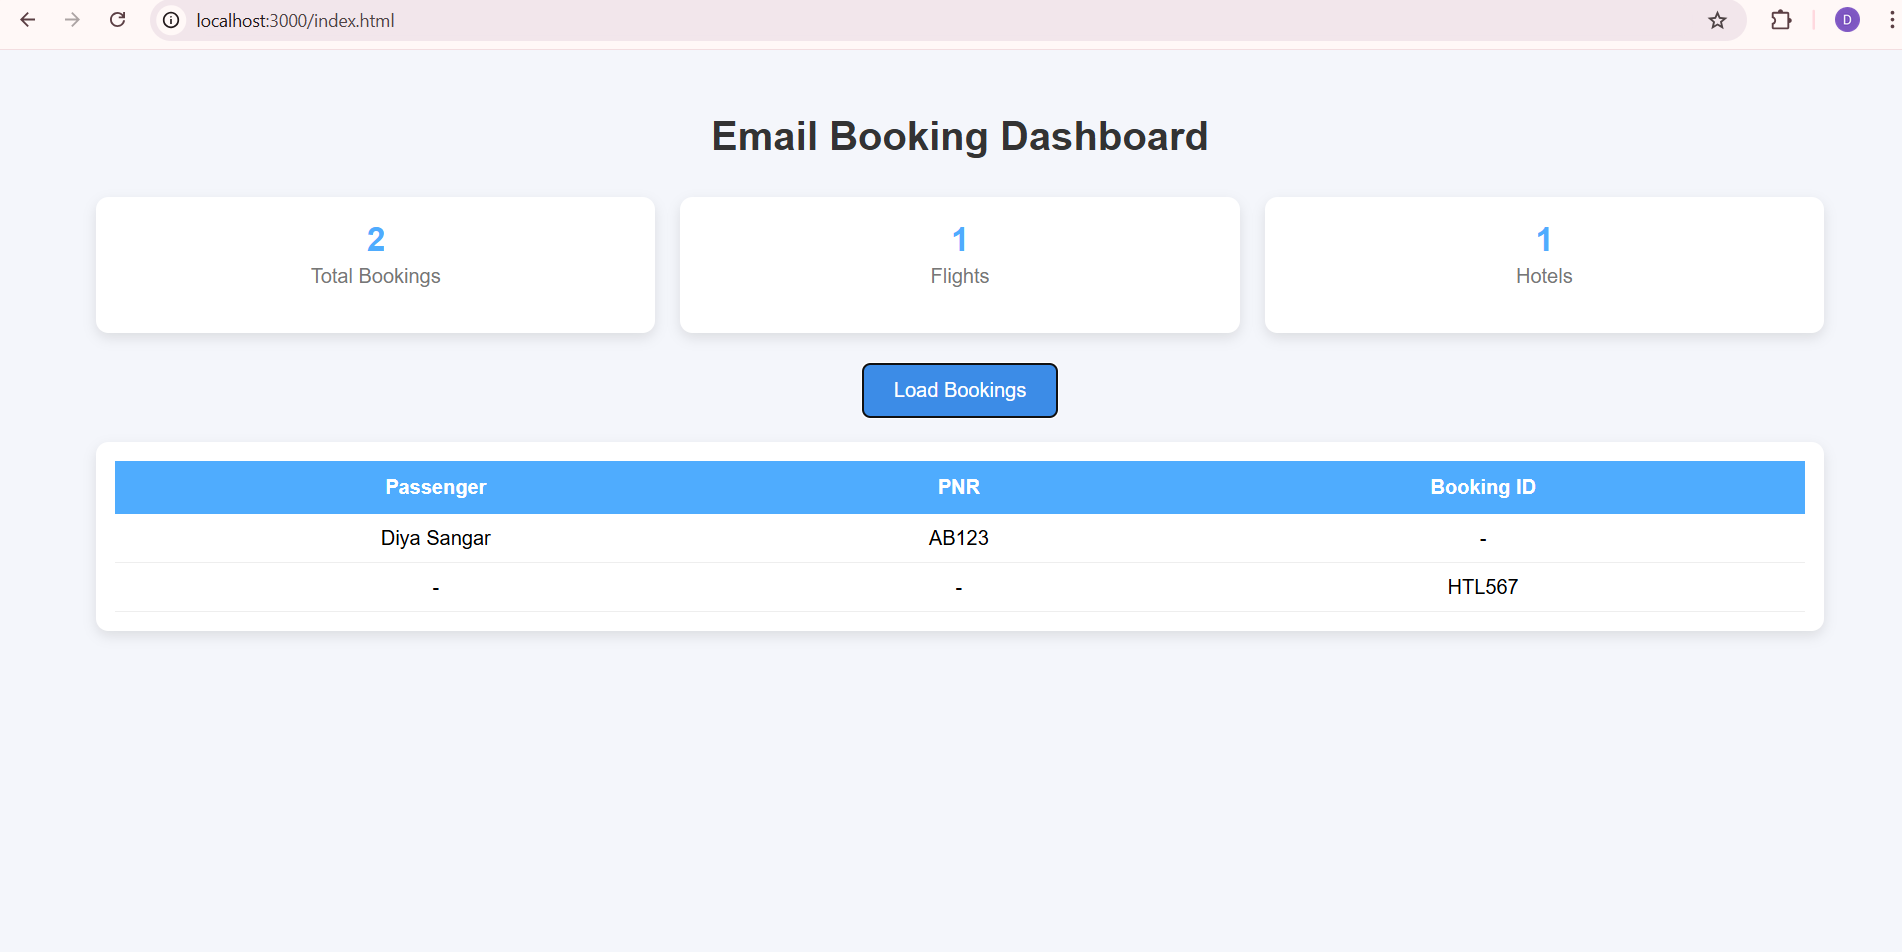
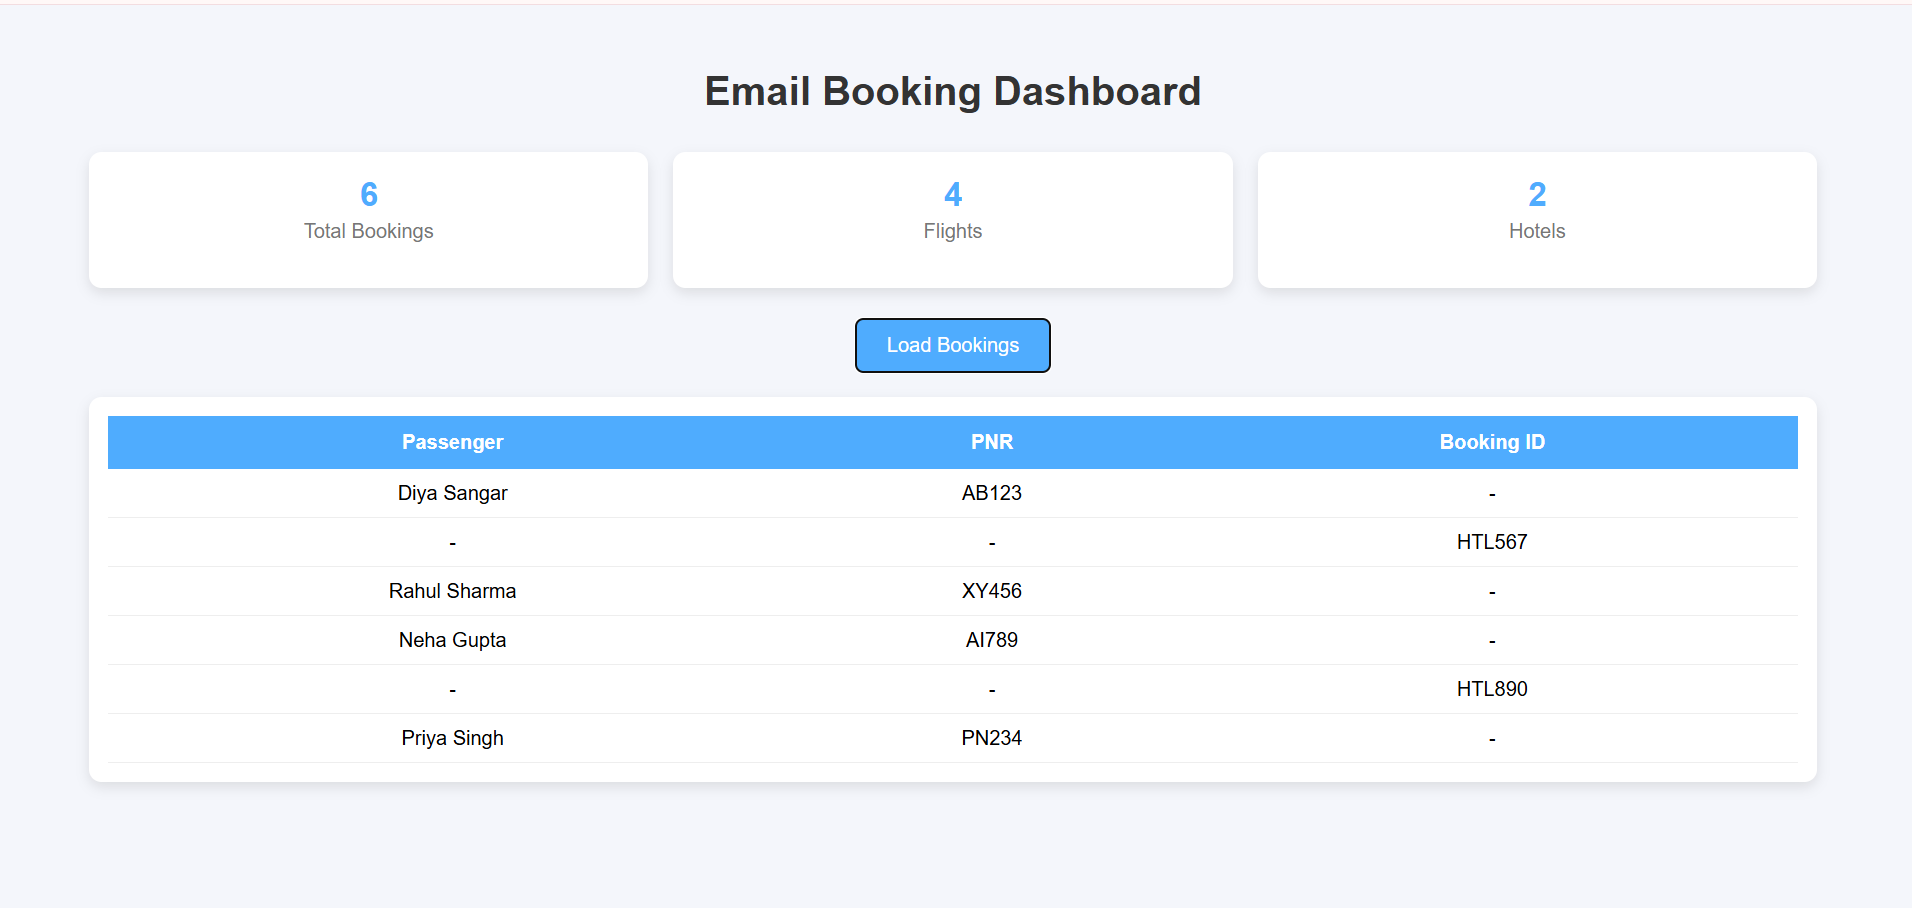
Add screenshots

diff --git a/backend/gmailService.js b/backend/gmailService.js
@@ -1,21 +1,45 @@
-async function fetchEmails() {
+async function fetchEmails(){
 
-    return [
+return [
 
-        {
-            sender: "makemytrip.com",
-            subject: "Flight Booking Confirmed",
-            body: "Passenger: Diya Sangar PNR: AB123 Flight: AI202 Date: 10 May"
-        },
+{
+sender:"makemytrip.com",
+subject:"Flight Booking Confirmed",
+body:"Passenger: Diya Sangar PNR: AB123 Flight: AI202 Date: 10 May"
+},
 
-        {
-            sender: "booking.com",
-            subject: "Hotel Reservation",
-            body: "Guest: Diya Sangar Booking ID: HTL567 Check-in: 15 May"
-        }
+{
+sender:"booking.com",
+subject:"Hotel Reservation",
+body:"Guest: Diya Sangar Booking ID: HTL567 Check-in: 15 May"
+},
 
-    ];
+{
+sender:"indigo.com",
+subject:"Flight Ticket Confirmation",
+body:"Passenger: Rahul Sharma PNR: XY456 Flight: 6E203 Date: 12 May"
+},
+
+{
+sender:"airindia.com",
+subject:"Flight Booking",
+body:"Passenger: Neha Gupta PNR: AI789 Flight: AI305 Date: 20 May"
+},
+
+{
+sender:"oyo.com",
+subject:"Hotel Booking Confirmation",
+body:"Guest: Amit Verma Booking ID: HTL890 Check-in: 18 May"
+},
+
+{
+sender:"makemytrip.com",
+subject:"Flight Booking Confirmed",
+body:"Passenger: Priya Singh PNR: PN234 Flight: AI505 Date: 22 May"
+}
+
+];
 
 }
 
-module.exports = { fetchEmails };
+module.exports={fetchEmails};
